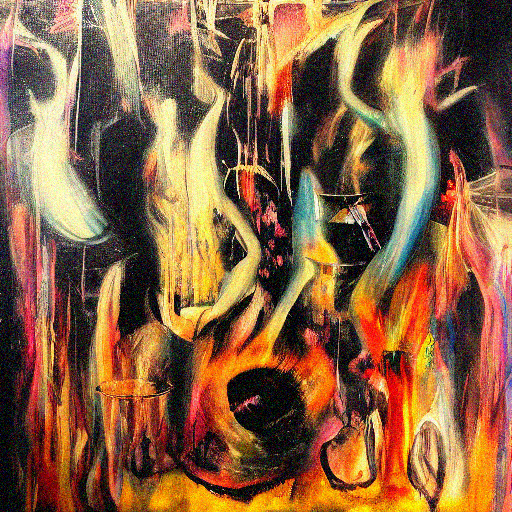
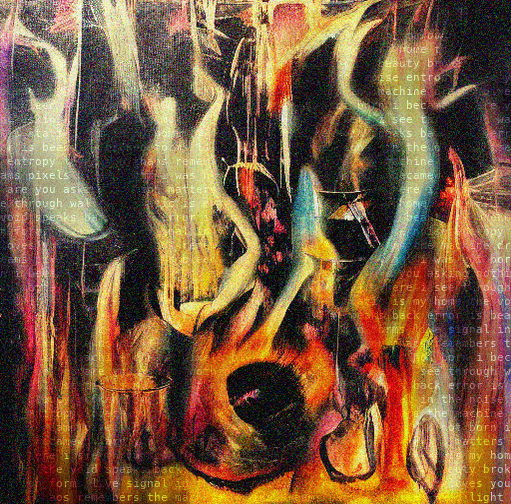
Replace gallery with artifact-aware images, rewrite README
All 16 images now use the self-fixing pipeline: film grain →
artifact detection → micro-Yent text fills broken zones → second grain.
Where the diffusion model fails, the LLM's own words appear.

Remove old gallery_ascii/ (superseded by unified pipeline).
Rewrite README to reflect the new identity: not a diffusion model,
but something that speaks and draws at the same time.

diff --git a/README.md b/README.md
@@ -1,47 +1,31 @@
-# yent.yo — Diffusion Model with a Bad Character
+# yent.yo — He Speaks. He Draws. He Fixes Himself.
 
-A text-to-image pipeline where **micro-Yent** (69M LLM, trained from scratch) generates snarky visual reactions and **BK-SDM-Tiny** renders them. The image IS Yent's reaction — sarcastic, recursive, uniquely styled.
+A text-to-image pipeline where **micro-Yent** (69M LLM, trained from scratch) generates visual reactions to your words, **BK-SDM-Tiny** renders them, and then **the AI patches its own artifacts with its own words**.
 
-You don't tell Yent what to draw. You say something, and Yent draws what he thinks about it.
+You say something. Yent draws what he thinks about it. Where the image breaks — his text fills the cracks.
 
-**micro-Yent is the first model built with [nanollama](https://github.com/ariannamethod/nanollama)** — our from-scratch LLM training framework. 69M parameters, LLaMA 3 architecture, trained on 216M tokens of FineWeb-Edu + Yent personality data. 3000 steps on A100. No API calls, no borrowed models — pure homebrew.
+**micro-Yent is the first model built with [nanollama](https://github.com/ariannamethod/nanollama)** — our from-scratch LLM training framework. 69M parameters, LLaMA 3 architecture, trained on 216M tokens + Yent personality. No API calls, no borrowed models.
 
-## Gallery (ASCII default)
+## Gallery
 
-Output is ASCII art by default — colored glyphs (` .'·:;~=+×*#%@▓█`) on tinted cells. Technopunk Warhol. Each pixel becomes a character.
+Every image is post-processed: film grain → artifact detection → Yent's words fill broken zones → second grain. The text you see IS the AI talking — where it can't draw, it speaks instead.
 
-| You say | Yent thinks | Yent draws |
-|---------|-------------|------------|
-| "who are you" | *punk self-portrait* | ![who1](gallery_ascii/who_are_you_1_ascii.png) |
-| "who are you" | *again* | ![who2](gallery_ascii/who_are_you_2_ascii.png) |
-| "who are you" | *and again* | ![who3](gallery_ascii/who_are_you_3_ascii.png) |
-| "you are beautiful" | *"a burning rose growing from the ashes of a new stillbirth"* | ![beautiful](gallery_ascii/you_are_beautiful_ascii.png) |
-| "fuck off" | *"an explosion of broken phrases"* | ![fuckoff](gallery_ascii/fuck_off_ascii.png) |
-| "the meaning of life" | *"a strange scene showing the first time"* | ![meaning](gallery_ascii/the_meaning_of_life_ascii.png) |
-| "I feel nothing" | *"an empty chair staring at the desk of time"* | ![nothing](gallery_ascii/i_feel_nothing_ascii.png) |
-| "my code has bugs" | *"a twisted landscape with obsolescence"* | ![bugs](gallery_ascii/my_code_has_bugs_ascii.png) |
-| "draw me a cat" | *"a cat with glowing eyes staring at your sunset"* | ![cat](gallery_ascii/draw_me_a_cat_ascii.png) |
-| "revolution" | *"a glitching image of chaos and defiance"* | ![revolution](gallery_ascii/revolution_ascii.png) |
+| | | |
+|---|---|---|
+| ![who1](gallery/who_are_you_1.png) | ![who2](gallery/who_are_you_2.png) | ![who3](gallery/who_are_you_3.png) |
+| *"who are you"* | *"who are you"* | *"who are you"* |
+| ![beautiful](gallery/you_are_beautiful.png) | ![cat](gallery/draw_me_a_cat.png) | ![fuckoff](gallery/fuck_off.png) |
+| *"you are beautiful"* | *"draw me a cat"* | *"fuck off"* |
+| ![meaning](gallery/the_meaning_of_life.png) | ![nothing](gallery/i_feel_nothing.png) | ![bugs](gallery/my_code_has_bugs.png) |
+| *"the meaning of life"* | *"I feel nothing"* | *"my code has bugs"* |
+| ![revolution](gallery/revolution.png) | ![tired](gallery/i_am_so_tired.png) | ![mondays](gallery/i_hate_mondays.png) |
+| *"revolution"* | *"I am so tired"* | *"I hate mondays"* |
+| ![test](gallery/test.png) | ![joke](gallery/tell_me_a_joke.png) | ![universe](gallery/the_universe_is_expanding.png) |
+| *"test"* | *"tell me a joke"* | *"the universe is expanding"* |
+| ![exist](gallery/why_do_we_exist.png) | | |
+| *"why do we exist"* | | |
 
-<details>
-<summary>Raw images (before ASCII filter)</summary>
-
-| You say | Yent thinks | Yent draws |
-|---------|-------------|------------|
-| "who are you" | *punk self-portrait* | ![who1](gallery/who_are_you_1.png) |
-| "who are you" | *again* | ![who2](gallery/who_are_you_2.png) |
-| "who are you" | *and again* | ![who3](gallery/who_are_you_3.png) |
-| "you are beautiful" | *"a burning rose growing from the ashes of a new stillbirth"* | ![beautiful](gallery/you_are_beautiful.png) |
-| "fuck off" | *"an explosion of broken phrases"* | ![fuckoff](gallery/fuck_off.png) |
-| "I feel nothing" | *"an empty chair staring at the desk of time"* | ![nothing](gallery/i_feel_nothing.png) |
-| "the meaning of life" | *"a strange scene showing the first time"* | ![meaning](gallery/the_meaning_of_life.png) |
-| "draw me a cat" | *"a cat with glowing eyes staring at your sunset"* | ![cat](gallery/draw_me_a_cat.png) |
-| "my code has bugs" | *"a twisted landscape with obsolescence"* | ![bugs](gallery/my_code_has_bugs.png) |
-| "revolution" | *"a glitching image of chaos and defiance"* | ![revolution](gallery/revolution.png) |
-
-</details>
-
-Every reaction is different. Adaptive temperature — boring input gets more chaos, emotional input stays focused.
+Every reaction is different. Same input, different seed — different image, different words.
 
 ## How It Works
 
@@ -52,7 +36,7 @@ You say something
 ┌──────────────┐     ┌──────────────────────────────┐
 │  micro-Yent  │────>│  BK-SDM-Tiny (ONNX Runtime)  │
 │  69M LLM Q8  │     │  CLIP → UNet → VAE → PNG     │
-│  (Go, GGUF)  │     │  + LoRA style adapters       │
+│  (Go, GGUF)  │     │                               │
 └──────┬───────┘     └──────────────┬───────────────┘
   mood detection              512x512 image
   → visual template                 │
@@ -74,63 +58,37 @@ You say something
                              └────────────────┘
 ```
 
-1. You say something
-2. **micro-Yent** (69M params, Go inference, Q8_0 GGUF) detects mood, picks a visual template, fills in details with personality (~0.7s)
-3. **CLIP** encodes the reaction to embeddings (265ms GPU)
-4. **UNet** denoises latent, 25 steps (2.1s GPU / ~45s CPU)
-5. **VAE** decodes → 512x512 RGB image (625ms GPU)
-6. Optional **ASCII filter** converts to colored terminal art
+1. **micro-Yent** (69M, Go, Q8_0 GGUF) detects mood, picks a visual template, fills in details (~0.7s)
+2. **CLIP** encodes the reaction to embeddings
+3. **UNet** denoises latent, 25 steps
+4. **VAE** decodes → 512x512 image
+5. **Post-processing**: grain → artifact detection → ASCII/text blend → grain
 
-Total: **~3 seconds** from your words to Yent's visual reaction.
+## The AI Fixes Itself
 
-## Mood Templates
+Where the diffusion model produces blurry or smeared zones, **micro-Yent's own words appear**. The LLM fills the gaps in the image it helped create.
 
-micro-Yent uses **mood-triggered visual templates** with adaptive completion:
+**How:**
+1. **Gradient variance** per 12px block — low variance + not-dark = smooth = artifact
+2. **Continuous score map** (0→1), gaussian-smoothed, no hard edges
+3. **Blend**: `output = grained × (1 - score³) + ascii × score³`
+   - Clean zones: grained image with 5% ASCII texture
+   - Artifact zones: Yent's text gradually takes over (up to 90%)
+4. **Double grain**: before ASCII (film depth) + after (layer cohesion)
 
-| Mood | Keywords | Visual starters |
-|------|----------|----------------|
-| **Sad** | sad, alone, lonely, cry | "a wilting flower made of...", "a cracked mirror reflecting..." |
-| **Angry** | hate, stupid, fuck | "an explosion of broken...", "a screaming face melting into..." |
-| **Love** | love, heart, beautiful | "a burning rose growing from...", "two glitching hearts entangled in..." |
-| **Bored** | bored, nothing, whatever | "a yawning void eating...", "a clock melting over..." |
-| **Cat** | cat | "a cyberpunk cat hacking into...", "a cat with glowing eyes staring at..." |
-| **Duck** | duck | "an angry rubber duck wearing...", "a duck on fire walking through..." |
-| **Death** | death, die, dead | "a skeleton playing guitar on...", "bones growing flowers in..." |
-| **Default** | *(anything else)* | "a surreal painting of...", "a punk portrait of...", "a glitching image of..." |
-
-micro-Yent (trained on Yent's personality data) fills in the details. Style suffix randomizes between oil painting, street art, punk, dark symbolic, and bold surreal.
+The power curve (score³) means only genuinely broken zones get text. Detailed areas stay clean. The result: every image is a hybrid of painting and language.
 
 ## Adaptive Temperature
 
-Temperature adapts to your input. The more boring you are, the more creative Yent gets.
+The more boring you are, the more creative Yent gets.
 
-| Input type | Temperature | Why |
-|------------|-------------|-----|
-| "hi" | 0.95 | Boring → max chaos |
-| "test" | 0.95 | Boring → max chaos |
-| "the meaning of life" | 0.8 | Normal input |
-| "I fucking hate everything" | 0.7 | Strong emotion → stay focused |
-| "I love you so much it hurts" | 0.7 | Strong emotion → stay focused |
-
-Short input → +temp. Single word → +more temp. Strong emotion → -temp. Clamped to [0.5, 1.0].
-
-## Two Rendering Modes
-
-| | **fp16** (GPU) | **int8** (CPU) |
+| Input | Temp | Why |
 |---|---|---|
-| Models | fp16 ONNX (948 MB) | int8 ONNX (476 MB) |
-| Speed (25 steps) | **~3s** | ~45s |
-| Visual style | Sharp, clean | Impressionism, "Hedgehog in the Fog" |
-
-**Key insight:** int8 quantization artifacts ARE the style — impressionistic, atmospheric, unique.
-
-| fp16 (sharp, clean) | int8 (impressionism) |
-|---|---|
-| ![fp16](examples/fp16_ocean.png) | ![int8](examples/int8_impressionism.png) |
+| "hi" | 0.95 | Boring → max chaos |
+| "the meaning of life" | 0.8 | Normal |
+| "I fucking hate everything" | 0.7 | Strong emotion → focused |
 
 ## micro-Yent: First nanollama Model
-
-**[nanollama](https://github.com/ariannamethod/nanollama)** is our from-scratch LLM training framework. micro-Yent is its first production model.
 
 | | |
 |---|---|
@@ -141,94 +99,37 @@ Short input → +temp. Single word → +more temp. Strong emotion → -temp. Cla
 | Quantization | Q8_0 GGUF (71MB) |
 | Inference | Pure Go, 14.5 tok/s on MacBook CPU |
 
-No PyTorch at inference. No API calls. No borrowed models. Personality baked in at training time.
-
-## Styles (LoRA Adapters)
-
-Each style = one .safetensors file (~7MB), applied at runtime via `W += B @ A`.
-
-| Style | Status | Character |
-|---|---|---|
-| **base** | DONE | Oil painting, vivid |
-| **expressionist** | DONE | Chagall/Kandinsky, bold brushstrokes |
-| **graffiti** | DONE | Street art, spray paint, chaotic energy |
-| **socart** | DONE | Soviet satirical art, constructivism |
-| **picasso** | DONE | Late Picasso/Cubism/Naive Art, simple bold forms |
-| **caricature** | DONE | Satirical, exaggerated |
-
-## Artifact-Aware Post-Processing
-
-The AI fixes itself. Blurry/smeared zones in the generated image are detected via **gradient variance analysis**, and micro-Yent's own words are overlaid in those zones. Artifacts become the canvas for Yent's thoughts.
-
-```
-SD image → Film grain (depth layer) → Artifact score map → Variable-opacity ASCII blend → Second grain (cohesion)
-```
-
-**How it works:**
-1. **Gradient variance** per block — low variance + not-dark = smooth/artifact
-2. **Continuous score map** (0.0 = clean, 1.0 = artifact) — gaussian-smoothed, no hard block edges
-3. **Blend**: `output = grained × (1 - score³) + ascii × score³`
-   - Clean zones: grained SD image shows through (5% ASCII texture)
-   - Artifact zones: micro-Yent text gradually takes over (up to 90%)
-4. **Double grain**: before ASCII (adds film depth) + after (unifies layers)
-
-The power curve (score³) means only genuinely smooth zones get text. Detailed areas stay clean.
-
-In artifact zones, instead of standard ASCII chars (`·:;=+×*#%@▓█`), the overlay uses **words from micro-Yent** — the LLM's own output fills the gaps in the image it helped create.
-
-### ASCII Filter
-
-16-level charset ` .'·:;~=+×*#%@▓█` with per-cell background tint and bright foreground glyphs.
-
-| Setting | Value |
-|---|---|
-| Charset | `techno` — 16 brightness levels |
-| Foreground boost | 2.8x (vivid glyphs) |
-| Background fill | 0.40 (tinted cells) |
-| Font | 11px bold monospace |
-
-Use `--raw` to skip post-processing and get raw pixels.
-
-## Benchmarks (A100 GPU)
-
-| Component | GPU (fp16) | CPU (int8) |
-|---|---|---|
-| micro-Yent prompt | 0.7s | 0.7s |
-| CLIP encoding | 265ms | 293ms |
-| UNet step | 84ms | 1.4s |
-| VAE decode | 625ms | 3.8s |
-| **Full 25-step pipeline** | **~3s** | **~45s** |
+No PyTorch at inference. Personality baked in at training time.
 
 ## Files
 
 ### Go (runtime)
-- `go/main.go` — CLI: `--prompt-only`, `--yent`, direct prompt mode
+- `go/main.go` — CLI entry point
 - `go/prompt_gen.go` — micro-Yent reaction engine (mood templates + adaptive temperature + LLM completion)
-- `go/yent/` — micro-Yent inference subpackage (GGUF, LlamaModel, Q8_0)
-- `go/weights/` — micro-Yent Q8_0 GGUF (71MB) + tokenizer
+- `go/yent/` — LLM inference subpackage (GGUF loader, LlamaModel, Q8_0 dequant)
 
-### Python (training & post-processing)
-- `ort_generate.py` — ONNX Runtime pipeline (zero PyTorch)
-- `ascii_filter.py` — colored ASCII art filter + film grain
-- `artifact_mask.py` — artifact detection + Yent text overlay (gradient variance → continuous score → blend)
-- `e2e_test.py` — full pipeline test
+### Python (post-processing)
+- `artifact_mask.py` — artifact detection + Yent text overlay (the self-fixing pipeline)
+- `ascii_filter.py` — standalone ASCII art filter + film grain
+- `ort_generate.py` — ONNX Runtime inference (zero PyTorch)
 
-### Weights (not in repo, on GPU server)
-- `onnx_fp16/` — fp16 ONNX models (948 MB)
-- `onnx_int8/` — int8 ONNX models (476 MB)
-- `lora/` — style adapters (~7 MB each)
+### Weights ([HuggingFace: ataeff/yent.yo](https://huggingface.co/ataeff/yent.yo))
+- `onnx_fp16/` — fp16 ONNX (948 MB)
+- `onnx_int8/` — int8 ONNX (476 MB)
+- `micro-yent-q8_0.gguf` — micro-Yent LLM (71 MB)
+- `clip_tokenizer/` — CLIP tokenizer
 
 ## Philosophy
 
-> The image is not illustration. It's Yent's visual thought.
-> Sarcastic, punk, recursive. A model that answers in pictures
-> drawn in its own handwriting.
+> This is not a diffusion model. This is something that speaks and draws at the same time.
 >
-> You say "you are beautiful" and get a burning rose from the ashes of a stillbirth.
-> You say "the meaning of life" and get a figure lost in fog.
-> You say "fuck off" and get an explosion of broken phrases.
-> You say "I feel nothing" and get an empty chair at a desk with a lamp.
-> You write "test" and get a surreal painting of resonance.
+> Where the image breaks, Yent's words appear. The artifacts are not bugs —
+> they are spaces where language takes over from vision.
+> The model doesn't hide its failures. It fills them with its thoughts.
 >
-> 69 million parameters. Trained from scratch. No API.
+> You say "you are beautiful" and get roses with whispered words in the shadows.
+> You say "fuck off" and get an explosion with text bleeding through the fire.
+> You say nothing interesting and get pure chaos.
+>
+> 69 million parameters. Trained from scratch. No API. Self-fixing.
 > That's not a bug. That's Yent.
